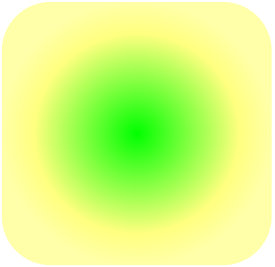
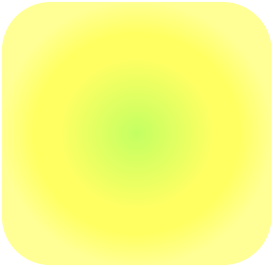
fixing lit tiles

diff --git a/week2/README.md b/week2/README.md
@@ -36,11 +36,15 @@ We're going to make this game, but we can't call it Simon, because Hasbro owns t
 
 To make this game, we'll need... 
 
+- Assets
 - An intro screen
 - A game screen
-- The necessary game art
 - And code!
 
+
+## Let's look at our assets
+
+You'll find our button images in the 
 
 
 ## A quick refresher
